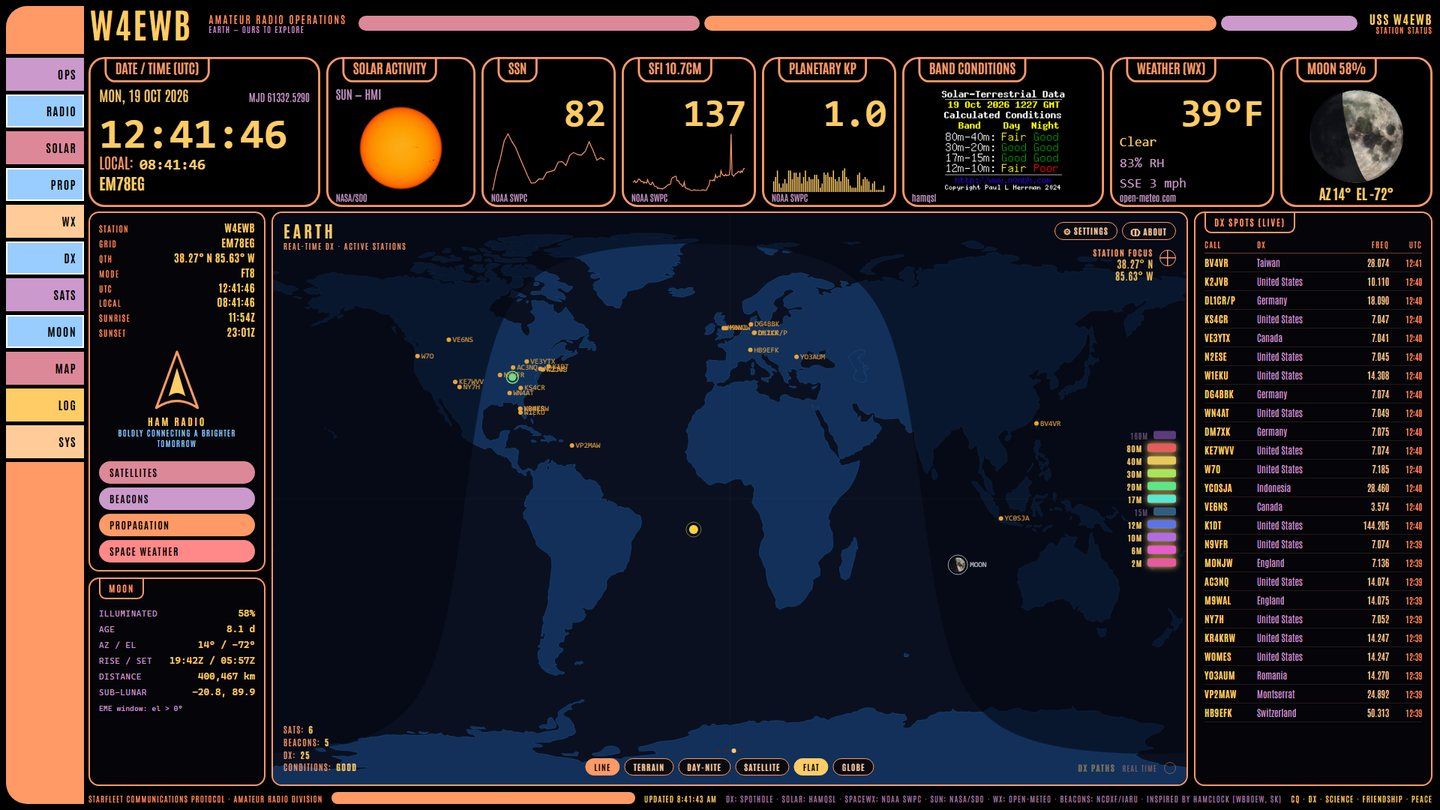
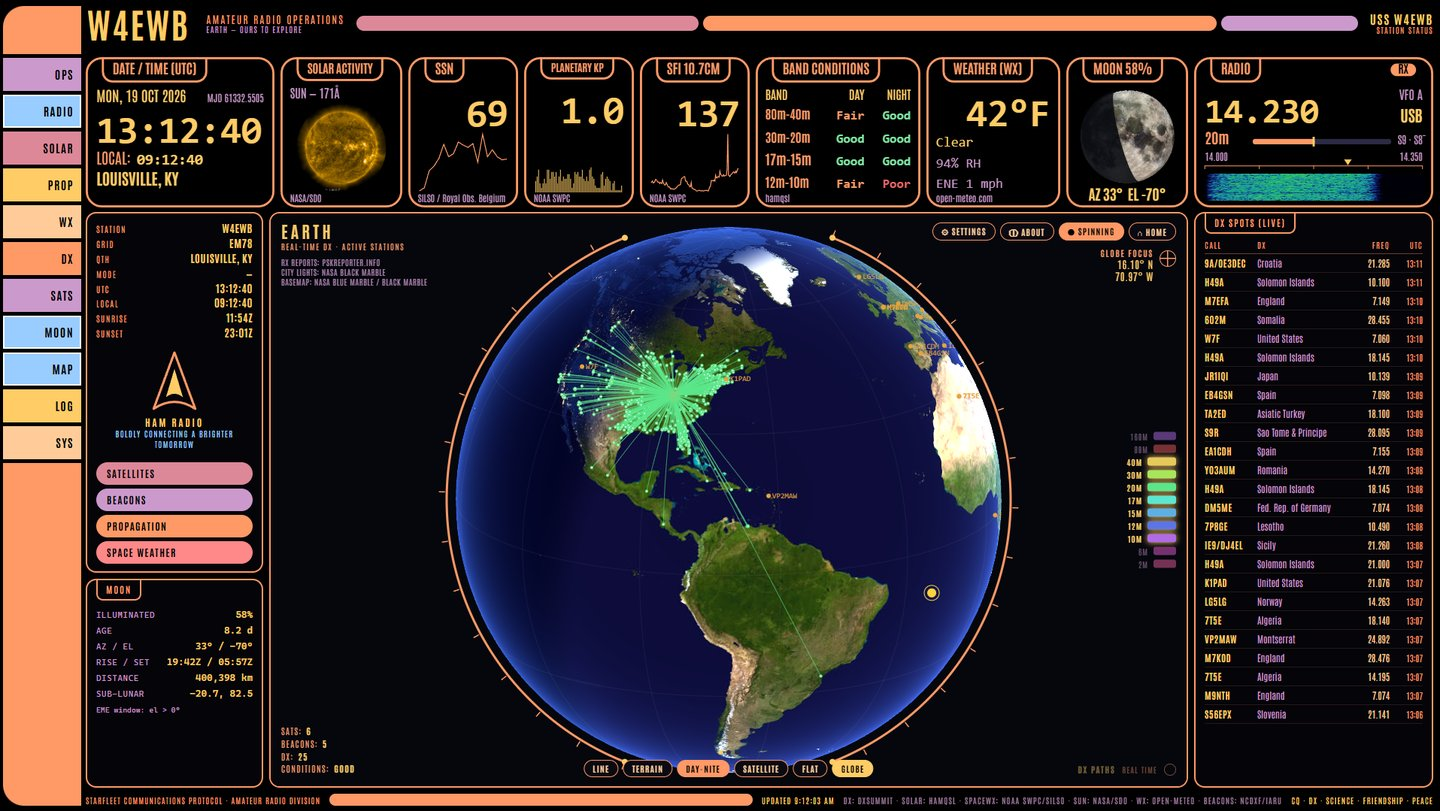
HamClock tile: Eric's globe screenshot
Claude-Session: https://claude.ai/code/session_01R44bUdNxwpi7DyuxQkQhQT

diff --git a/index.html b/index.html
@@ -261,7 +261,7 @@ table.rpt tr.air td:first-child{color:var(--gold)}
     <div class=tab><svg class=ic viewBox="0 0 24 24"><circle cx="12" cy="12" r="9"/><path d="M3 12h18M12 3a14 14 0 0 1 0 18M12 3a14 14 0 0 0 0 18"/></svg>HamClock</div>
     <div class=livetab><span class=ldot></span>Live</div>
     <div class=body>
-      <a class=hcshot href="https://hamclock.w4ewb.com"><img src="img/hamclock.jpg" alt="HamClock: DX spots, solar activity, band conditions, grey line and space weather" loading=lazy width=1440 height=810></a>
+      <a class=hcshot href="https://hamclock.w4ewb.com"><img src="img/hamclock.jpg?v=2" alt="HamClock: 3D globe with live DX paths, solar activity, band conditions, radio and space weather" loading=lazy width=1440 height=811></a>
       <div class=sub>DX spots, solar activity, band conditions, grey line and space weather on the shack's LCARS wall display</div>
       <a class=cta href="https://hamclock.w4ewb.com">Open HamClock &#9656;</a>
     </div>
